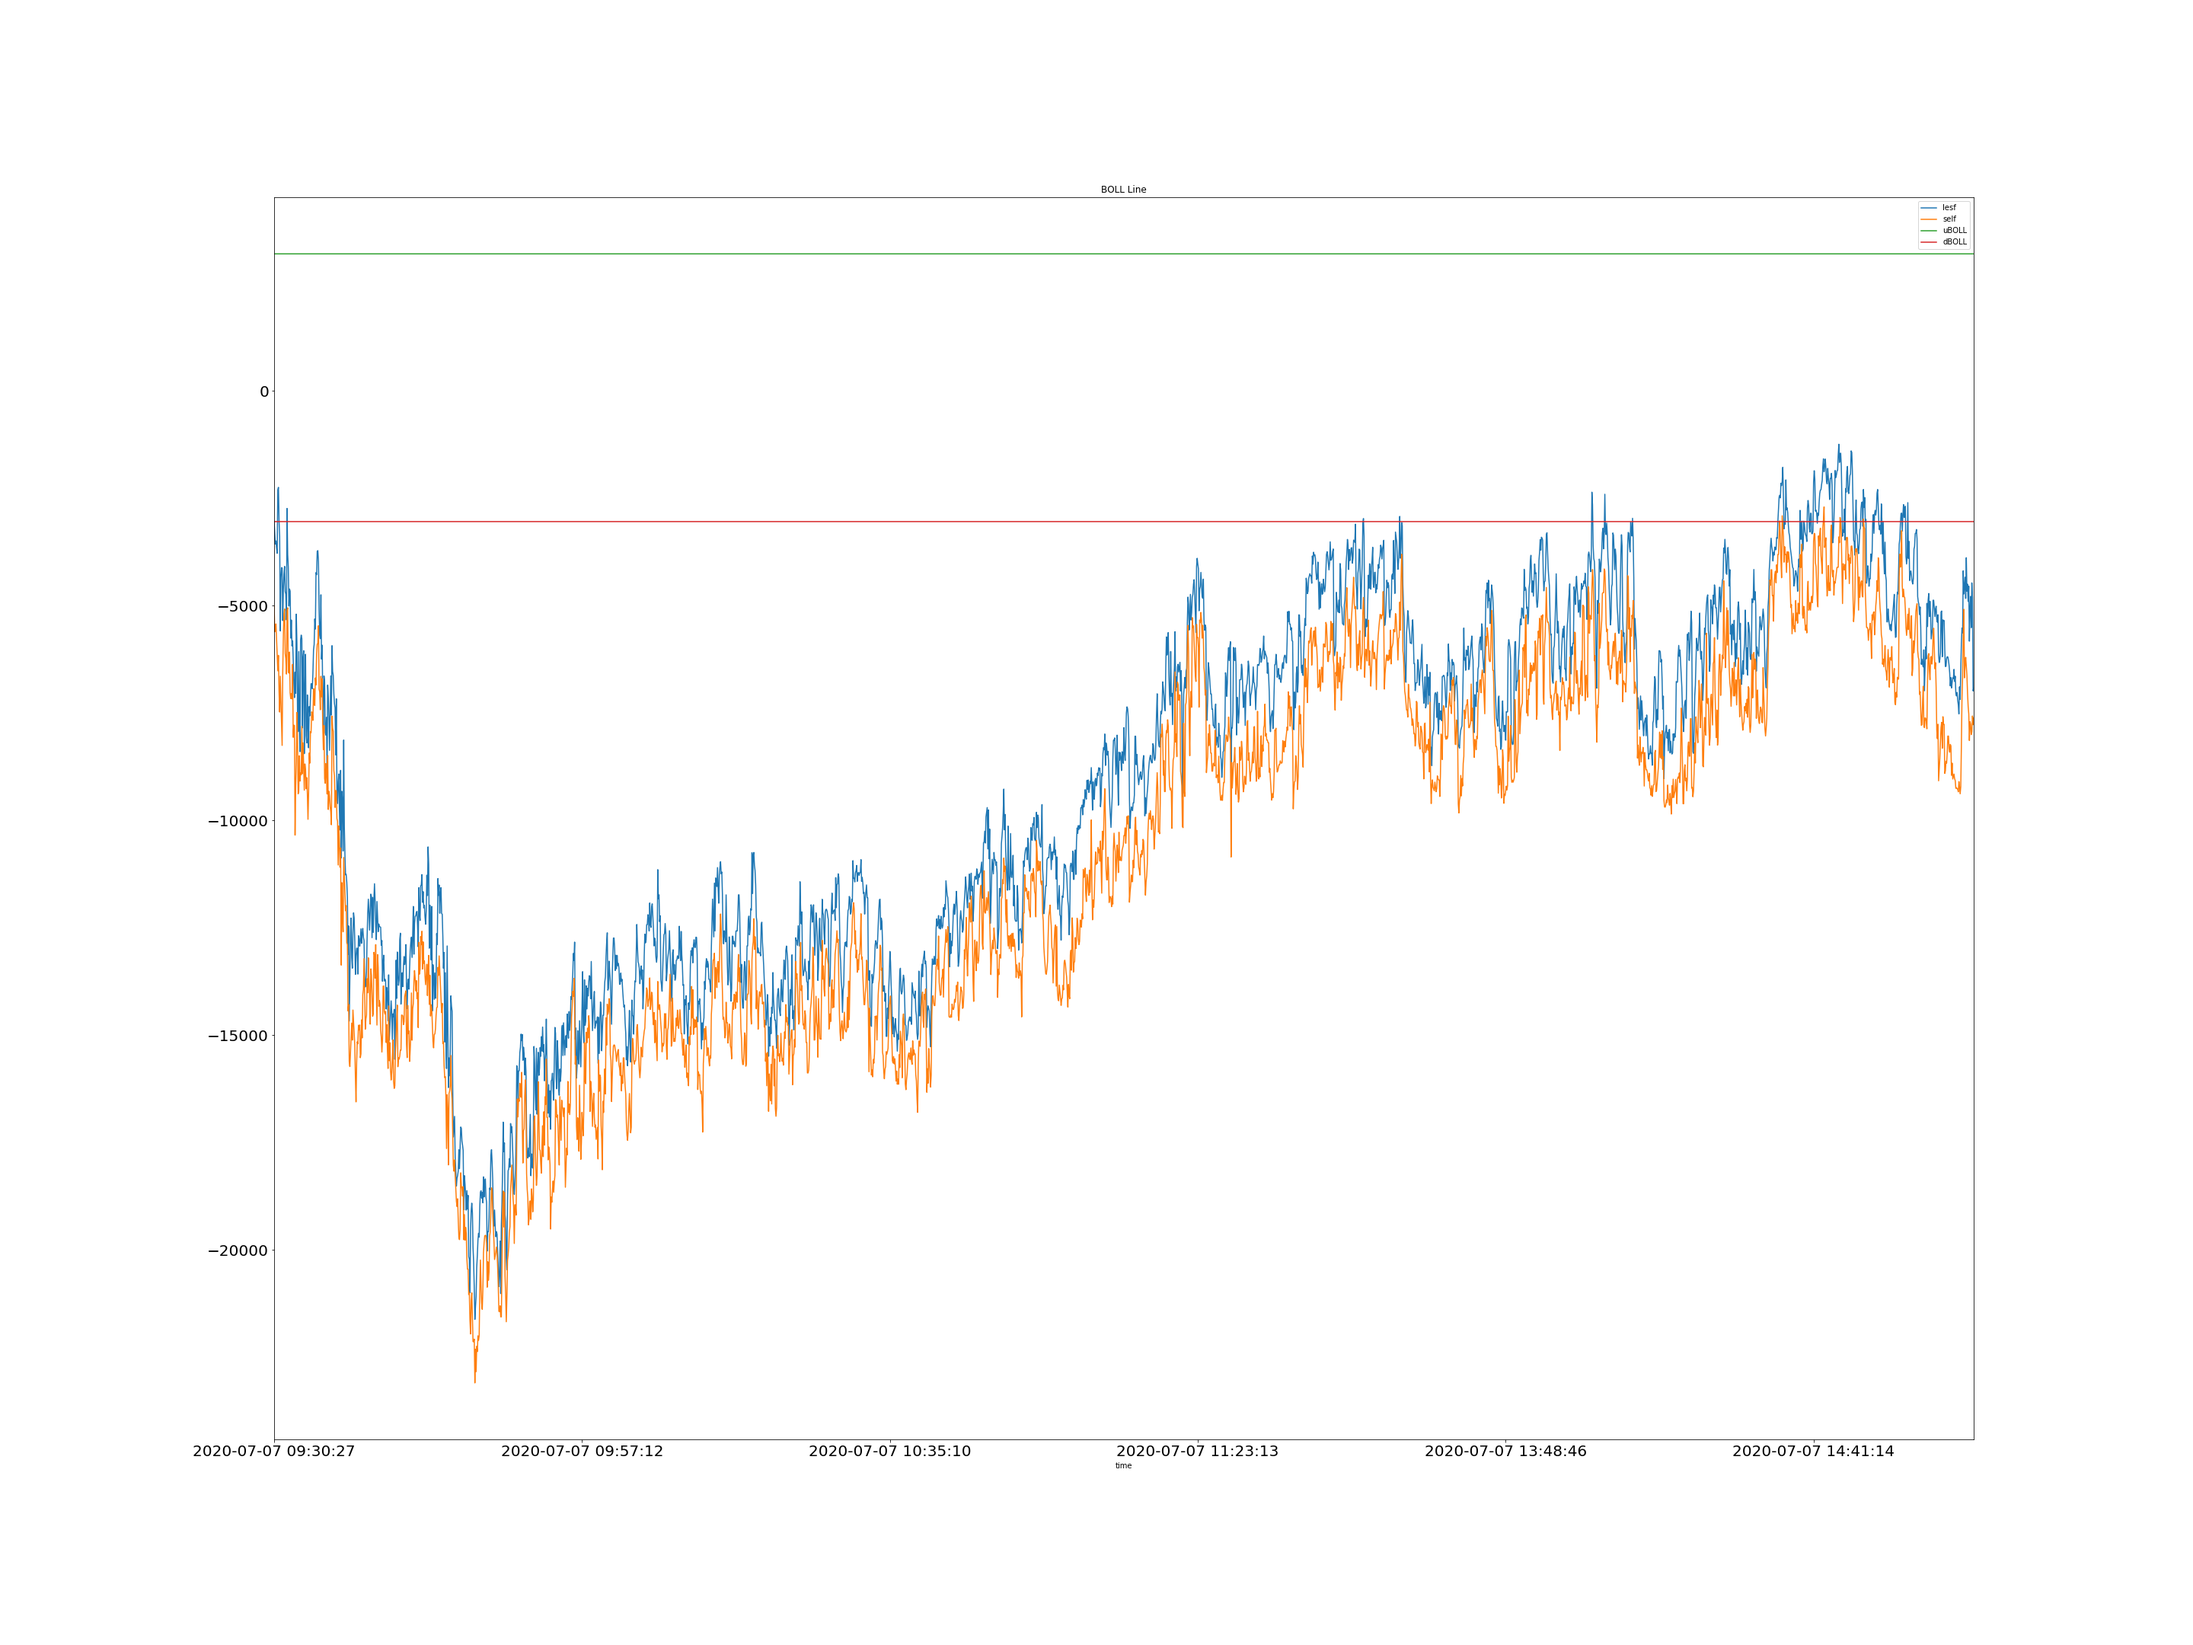
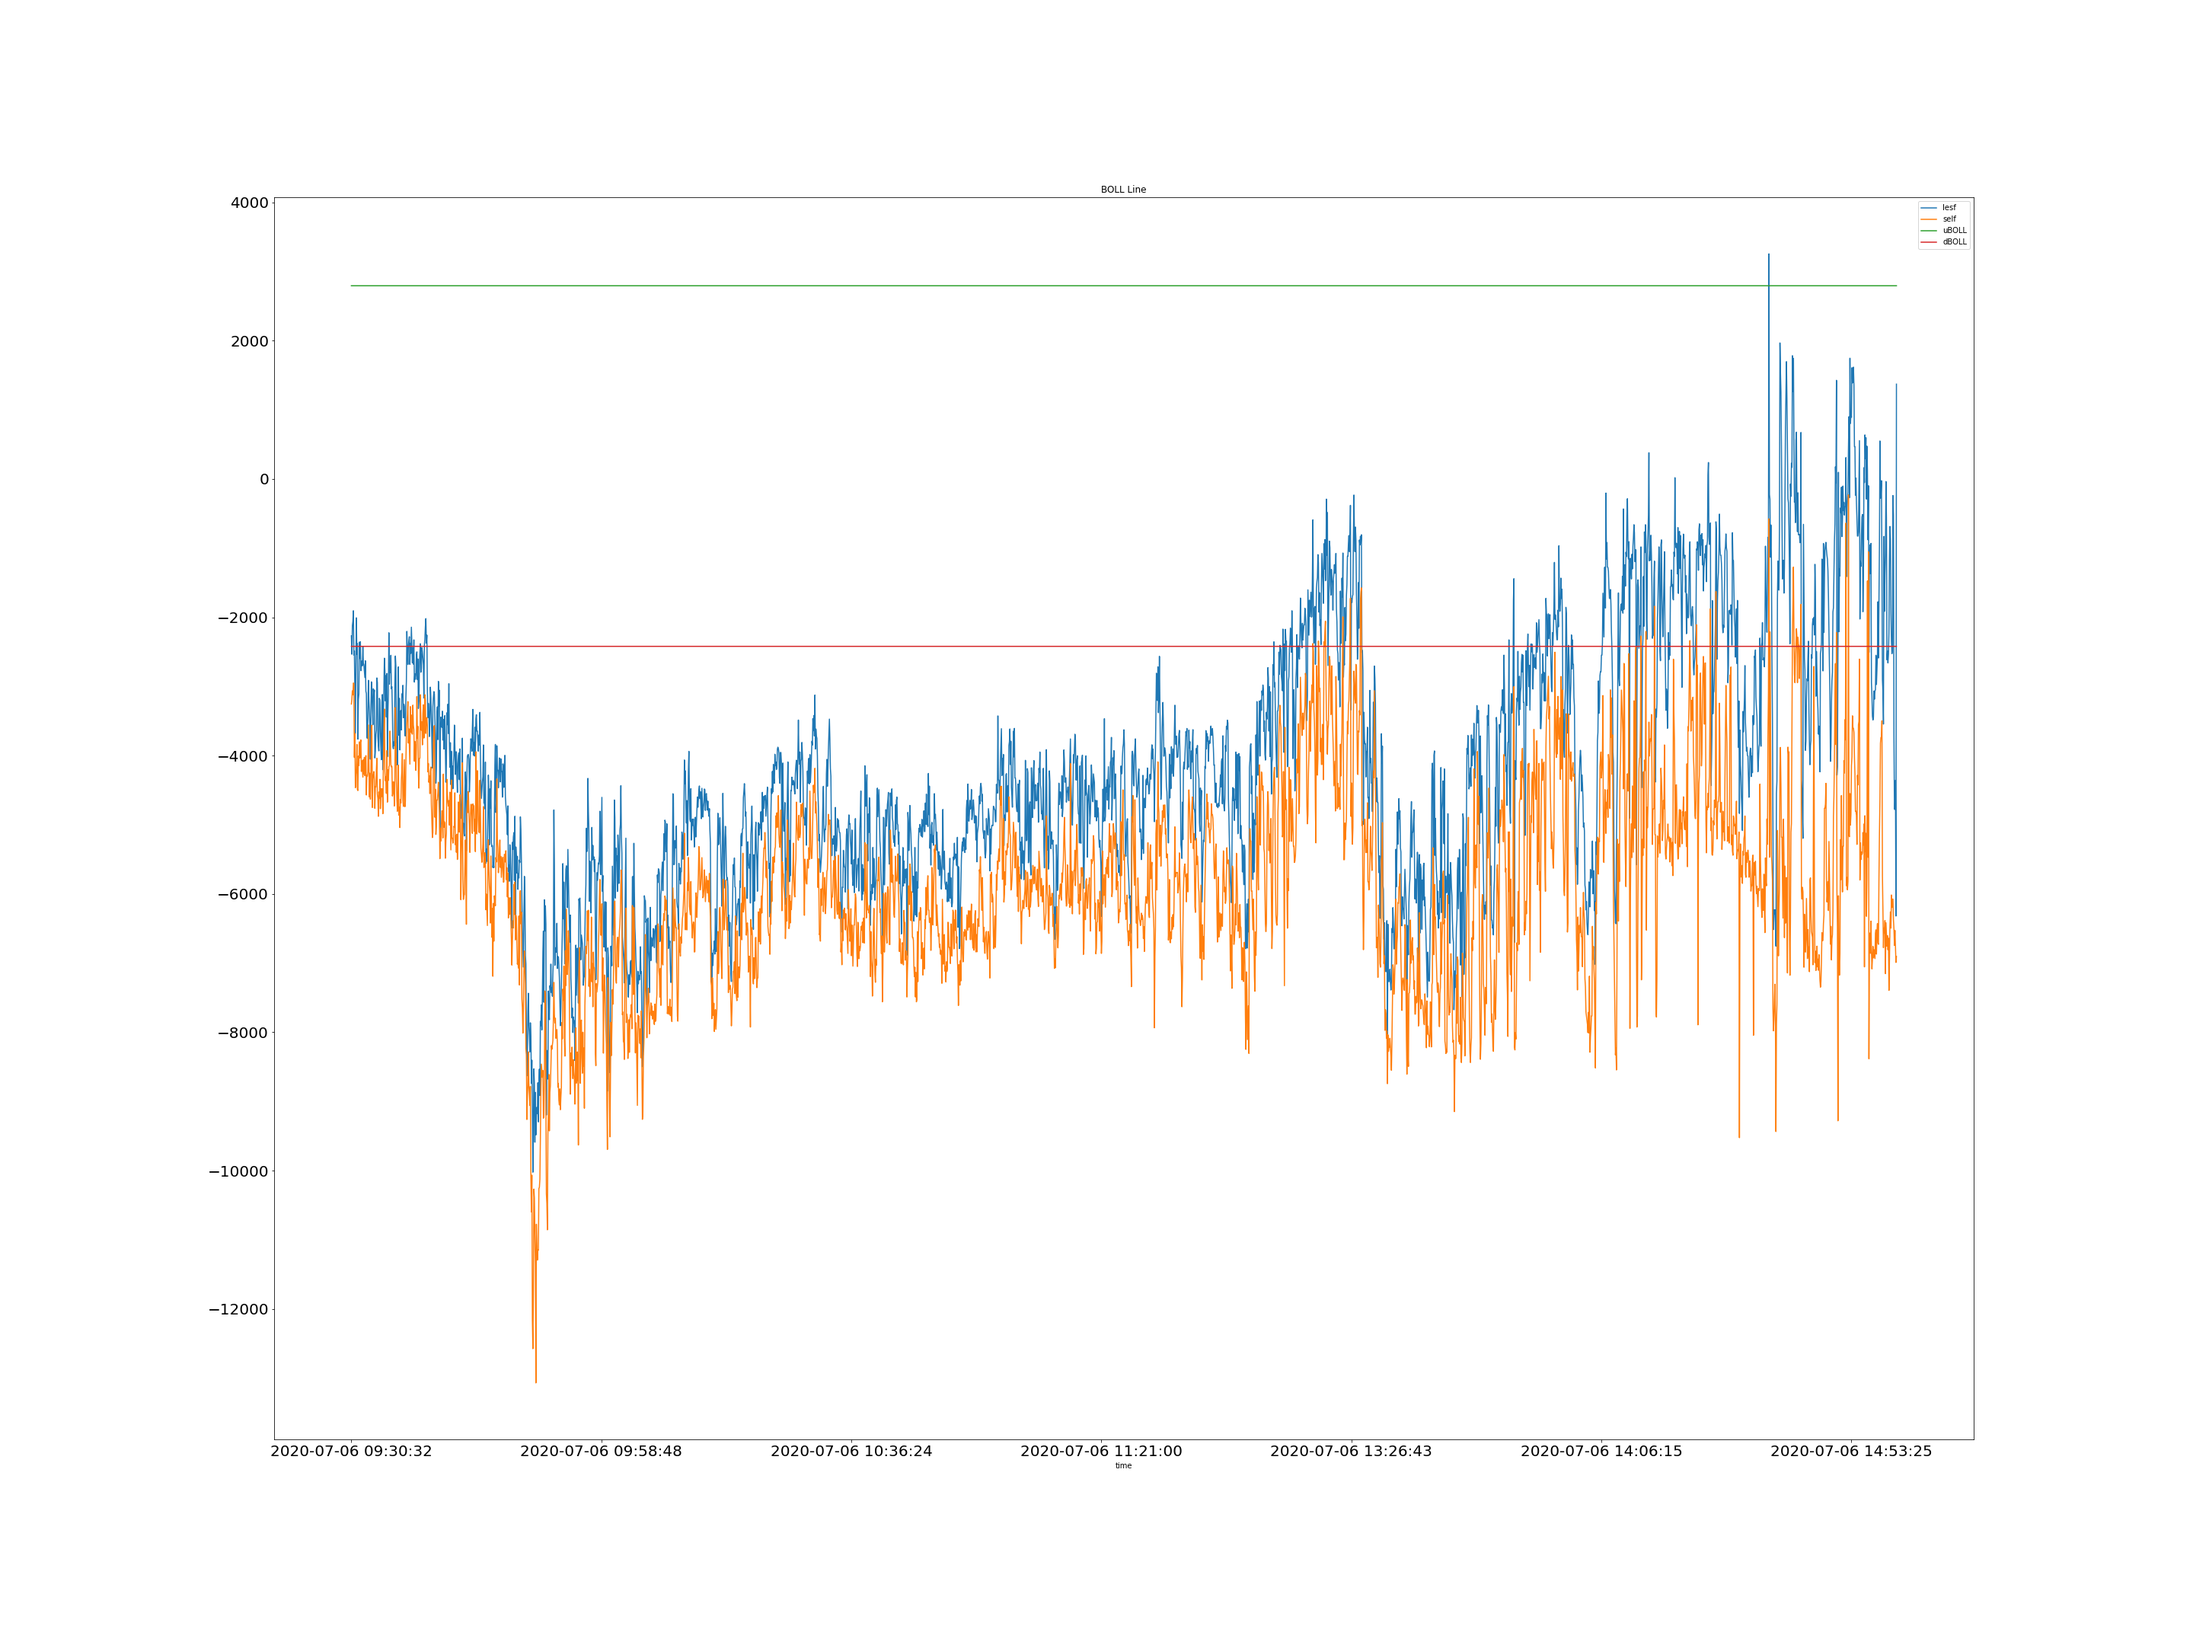
Signed-off-by: wap <qhwgp@163.com>

diff --git a/myStatArbi_2.0.py b/myStatArbi_2.0.py
@@ -75,11 +75,12 @@ def simuDay(jqETFID, jqFutureID, listTradeDay, nIndex, nParamDay, tradeThreshold
     statInfo= getPairStatInfo(jqETFID, jqFutureID, listTradeDay, nIndex, nParamDay)
     pqdata= getPairQuote(jqETFID, jqFutureID, listTradeDay[nIndex], statInfo[0])
     if not 'future' in iniPosition.index:
-        iniPosition.loc['future', 'volume']= 0
+        iniPosition.loc['future']= [0,0]
     if not 'etf' in iniPosition.index:
-        iniPosition.loc['etf', 'volume'] =0
-    position= iniPosition.loc['future', 'volume']
-    diffETF= statInfo[0]* position- iniPosition.loc['etf', 'volume']
+        iniPosition.loc['etf']= [0,0]
+    fposition= -iniPosition.loc['future', 'volume']
+    etfPosition= iniPosition.loc['etf', 'volume']
+    diffETF= statInfo[0]* fposition- etfPosition
     if diffETF!= 0:
         row= pqdata.iloc[0]
         if diffETF> 0.1:
@@ -97,23 +98,37 @@ def simuDay(jqETFID, jqFutureID, listTradeDay, nIndex, nParamDay, tradeThreshold
             if tradeSignal== 'buy':
                 pdTrade= pdTrade.append({'time': time, 'symbol': jqETFID, 'type': 'etf', 'volume': statInfo[0], 'price': row['askp']}, ignore_index=True)
                 pdTrade= pdTrade.append({'time': time, 'symbol': jqFutureID, 'type': 'future', 'volume': -1, 'price': row['fb1_p']}, ignore_index=True)
-                position+= 1
+                fposition+= 1
             elif tradeSignal== 'sell':
                 pdTrade= pdTrade.append({'time': time, 'symbol': jqETFID, 'type': 'etf', 'volume': -statInfo[0], 'price': row['bidp']}, ignore_index=True)
                 pdTrade= pdTrade.append({'time': time, 'symbol': jqFutureID, 'type': 'future', 'volume': 1, 'price': row['fa1_p']}, ignore_index=True)
-                position-= 1
+                fposition-= 1
             tradeSignal= 'hold'
         else:#check trade
-            tradeSignal= checkTrade(row, statInfo, tradeThreshold, positionThreshold, levelThreshold, position)
+            tradeSignal= checkTrade(row, statInfo, tradeThreshold, positionThreshold, levelThreshold, fposition)
          
-    pdPosition= pdTrade.groupby(['type']).agg({'volume':'sum'})
+    pdPosition= pdTrade.groupby(['type']).agg({'volume':'sum', 'price':'count'})
+    if not 'future' in pdPosition.index:
+        pdPosition.loc['future']= [0,0]
+    if not 'etf' in pdPosition.index:
+        pdPosition.loc['etf']= [0,0]
     pdPosition['volume']= pdPosition['volume'].add(iniPosition['volume'])
     row= pqdata.iloc[-1]
-    pdPosition.loc['etf', 'price']= (row.bidp+ row.askp) /2
-    pdPosition.loc['future', 'price']= (row.fb1_p+ row.fa1_p) /2
+    etfClose= (row.bidp+ row.askp) /2
+    futureClose= (row.fb1_p+ row.fa1_p) /2
+    pdPosition.loc['etf', 'price']= etfClose
+    pdPosition.loc['future', 'price']= futureClose
+    fMultiply= cfg.getFutureMultiply(jqFutureID)
+    PL= etfPosition* (etfClose- iniPosition.loc['etf', 'price'])+ iniPosition.loc['future', 'volume']* (futureClose- iniPosition.loc['future', 'price'])* fMultiply
+    gdata= pdTrade.groupby(['type', 'volume']).agg({'price':'mean','time':'count'})
+    for index, row in gdata.iterrows():
+        if index[0]== 'etf':
+            PL+= index[1]* row.time* (etfClose- row.price)
+        elif index[0]== 'future':
+            PL+= index[1]* row.time* (futureClose- row.price)* fMultiply
     #gdata= pdTrade.groupby(['type', 'volume']).agg({'price':'mean','time':'count'})
             
-    return pdTrade, pdPosition
+    return pdTrade, pdPosition, PL
 
 if __name__ == '__main__':
     t0 = ti.time()
@@ -122,7 +137,7 @@ if __name__ == '__main__':
     #sdate= '20200430' 
     
     listTradeDay= cfg.getTradeDays()
-    nIndex= -1
+    nIndex= -2
     
     nTestDay= 3
     tradeThreshold= 0.8
@@ -131,18 +146,36 @@ if __name__ == '__main__':
     nTradeSilence= 3
     nParamDay= 5
     
-    mdata= cfg.getMergeData(jqETFID, jqFutureID, listTradeDay[-1])
+    mdata= cfg.getMergeData(jqETFID, jqFutureID, listTradeDay[nIndex])
     statInfo= getPairStatInfo(jqETFID, jqFutureID, listTradeDay, nIndex, nParamDay)#unitETFVolumns, basisMean, basisStd
     #pdpdTrade, position, pdDTradeInfo= PairTradeStrategy(jqETFID, jqFutureID, sdate, nParamDay, tradeThreshold , positionThreshold, nTestDay)
-    print('day: '+ listTradeDay[-1])
+    print('day: '+ listTradeDay[nIndex])
     print('unitETFVolumns: %d'% statInfo[0])
     print('basisMean: %d'% statInfo[1])
     print('basisStd: %d'% statInfo[2])
     
-    pqdata= getPairQuote(jqETFID, jqFutureID, listTradeDay[-1], statInfo[0])
+    pqdata= getPairQuote(jqETFID, jqFutureID, listTradeDay[nIndex], statInfo[0])
     drawBOLL(jqETFID, jqFutureID, listTradeDay, nIndex, nParamDay)
-    pdTrade, pdPosition= simuDay(jqETFID, jqFutureID, listTradeDay, nIndex, nParamDay, tradeThreshold, positionThreshold, 
-            levelThreshold, nTradeSilence)
+    
+    pdPosition= pd.DataFrame(columns=('volume', 'price'))
+    listTrade= []
+    listPosition= []
+    listPL= []
+    testDay= 10
+    for i in range(testDay):
+        nIndex= i- testDay
+        pdTrade, pdPosition, PL= simuDay(jqETFID, jqFutureID, listTradeDay, nIndex, nParamDay, tradeThreshold, positionThreshold, 
+                levelThreshold, nTradeSilence, pdPosition)
+        print('day: %s, P&L: %0.2f'% (listTradeDay[nIndex], PL))
+        listTrade.append(pdTrade)
+        listPosition.append(pdPosition)
+        listPL.append(PL)
+    """
+    nIndex= -1
+    pdTrade, pdnPosition, PL= simuDay(jqETFID, jqFutureID, listTradeDay, nIndex, nParamDay, tradeThreshold, positionThreshold, 
+            levelThreshold, nTradeSilence, pdPosition)
+    print('P&L: %0.2f'% PL)
+    """
     print('All done, time elapsed: %.2f min' % ((ti.time() - t0)/60))
 
 

diff --git a/myjqcfg.py b/myjqcfg.py
@@ -24,8 +24,8 @@ indexTickDT= 'jqIndexTickData'
 jqUser= '18665883365'
 jqPwd= 'Hu12345678'
 
-jqDataPath= 'F:\\LenovoSync\\jqData'
-#jqDataPath= 'C:\\Users\\WAP\\Documents\\wap\\jqData'
+#jqDataPath= 'F:\\LenovoSync\\jqData'
+jqDataPath= 'C:\\Users\\WAP\\Documents\\wap\\jqData'
 #jqDataPath= "H:\jqData"
 
 #trade params
